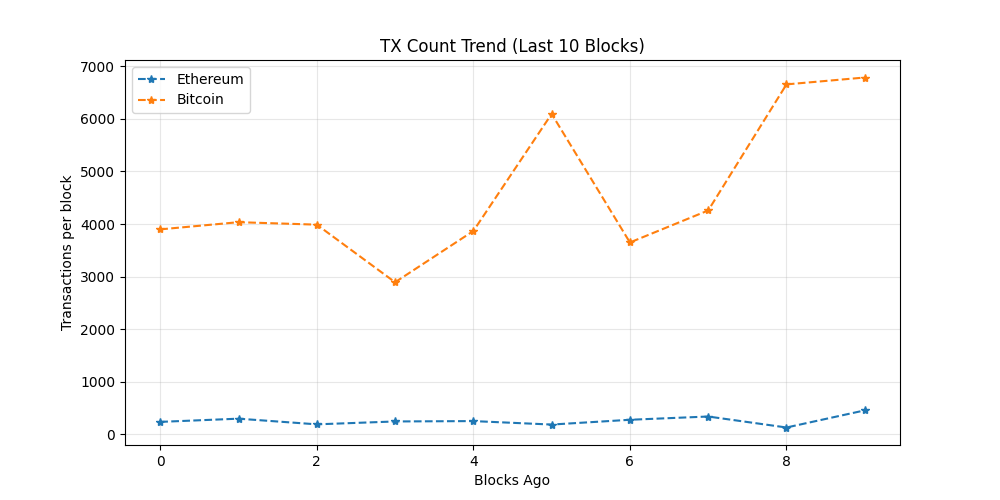
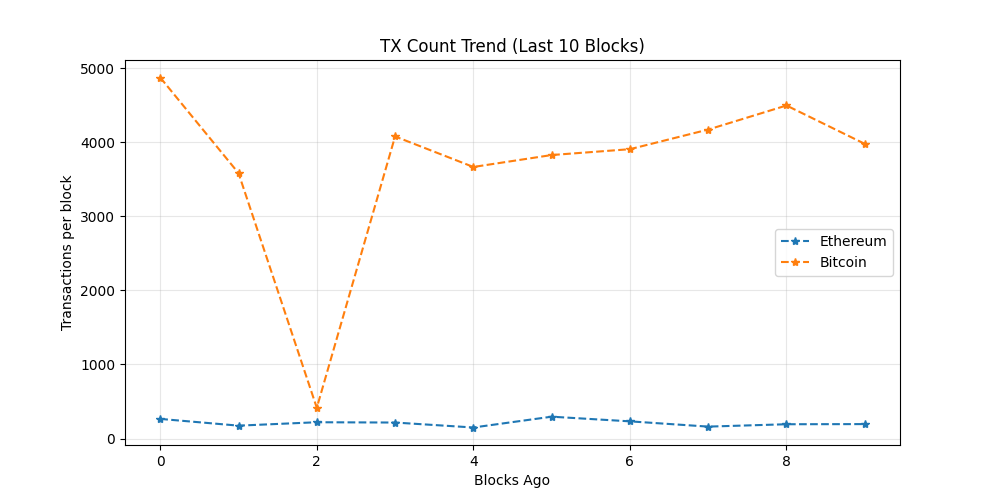
chore: update on-chain dashboard

diff --git a/README.md b/README.md
@@ -19,7 +19,7 @@ The README itself acts as the dashboard and is regenerated automatically on a 6 
 demonstrating a production-style, infrastructure-focused observability workflow rather
 than a traditional UI-driven approach.
 
-_Last updated: 2026-08-07 19:13 UTC_
+_Last updated: 2026-08-08 02:20 UTC_
 
 ## API Usage (GetBlock.io)
 - Calls used: **24**
@@ -27,8 +27,8 @@ _Last updated: 2026-08-07 19:13 UTC_
 ## Network Metrics
 | Chain | Block Height | TX Count | TPS (10 blk avg) | Block Util | Avg Fee |
 |------|-------------|----------|------------------|------------|---------|
-| Ethereum | 25705102 | 454 | 37.83 | 70.63% | 0.1 Gwei |
-| Bitcoin | 961481 | 6788 | 0.0 | 99.8% | N/A |
+| Ethereum | 25707227 | 195 | 16.25 | 42.08% | 0.0 Gwei |
+| Bitcoin | 961517 | 3979 | 53.77 | 99.8% | N/A |
 
 ## Visuals
 ### Transactions Trend
@@ -43,8 +43,8 @@ _Last updated: 2026-08-07 19:13 UTC_
 ## Whale Alerts (latest block)
 - Transaction hashes are truncated for readability.
 - Full hashes are available in `dashboards/metrics.json`
-- Bitcoin | 200.0 BTC | `920afd5e441f…`
-- Bitcoin | 133.9 BTC | `b427e8416700…`
+- Bitcoin | 103.69 BTC | `edd91ced76f6…`
+- Bitcoin | 1120.94 BTC | `bc03bf085080…`
 
 ## Run locally
 
